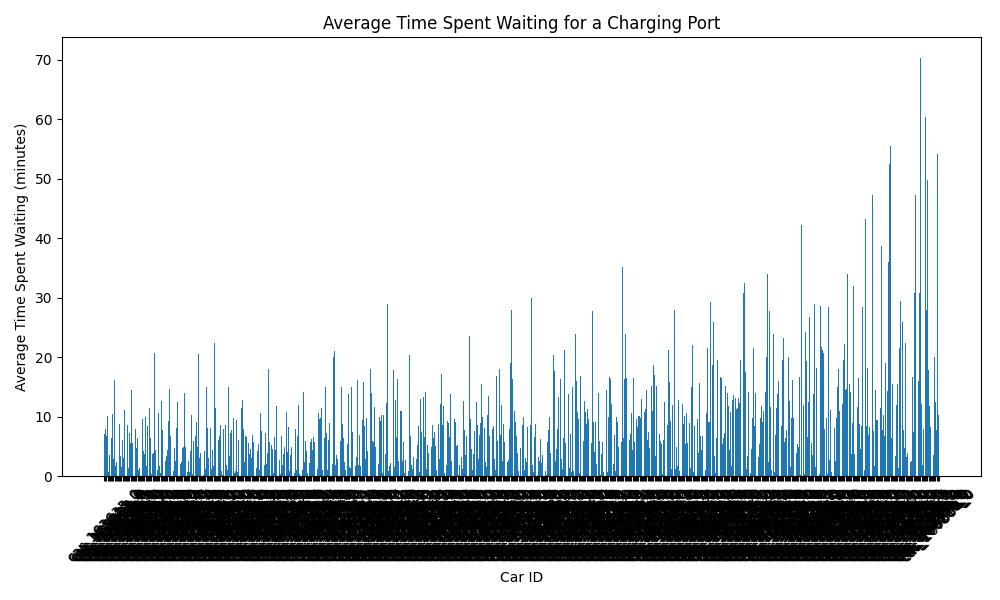
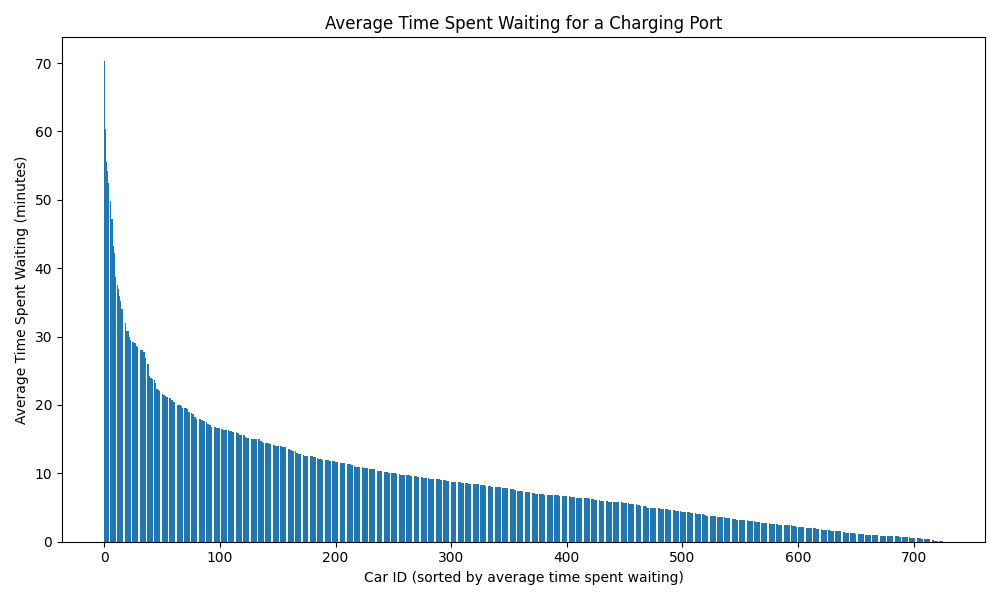
original

diff --git a/src/analysis/cars.py b/src/analysis/cars.py
@@ -92,16 +92,16 @@ def plot_average_travelled_distance(average_travelled_distance):
     # Extract car IDs and distances
     car_ids = list(temp_average_travelled_distance.keys())
     distances = list(temp_average_travelled_distance.values())
+
+    # Sort distances
+    distances.sort(reverse=True)
     
     # Use bar plot with car IDs on x-axis
     plt.bar(range(len(car_ids)), distances)
     
-    plt.xlabel('Car ID')
+    plt.xlabel('Cars (sorted by average travelled distance)')
     plt.ylabel('Average Travelled Distance (km)')
     plt.title('Average Travelled Distance to Charging Station')
-    
-    # Set x-axis ticks to be car IDs
-    plt.xticks(range(len(car_ids)), car_ids, rotation=45)
     
     plt.tight_layout()
     plt.savefig(Constants.Graphs.AVERAGE_TRAVELLED_DISTANCE_GRAPH_FILE_PATH)
@@ -119,16 +119,16 @@ def plot_average_time_spent_waiting(average_time_spent_waiting):
     # Extract car IDs and time spent waiting
     car_ids = list(temp_average_time_spent_waiting.keys())
     time_spent_waiting = list(temp_average_time_spent_waiting.values())
+
+    # Sort time spent waiting
+    time_spent_waiting.sort(reverse=True)
     
     # Use bar plot with car IDs on x-axis
     plt.bar(range(len(car_ids)), time_spent_waiting)
     
-    plt.xlabel('Car ID')
+    plt.xlabel('Car ID (sorted by average time spent waiting)')
     plt.ylabel('Average Time Spent Waiting (minutes)')
     plt.title('Average Time Spent Waiting for a Charging Port')
-    
-    # Set x-axis ticks to be car IDs
-    plt.xticks(range(len(car_ids)), car_ids, rotation=45)
     
     plt.tight_layout()
     plt.savefig(Constants.Graphs.AVERAGE_TIME_SPENT_WAITING_GRAPH_FILE_PATH)

diff --git a/src/analysis/stations_usage.py b/src/analysis/stations_usage.py
@@ -97,6 +97,7 @@ def plot_total_usage(total_usage):
     plt.ylabel('Average Usage')
     plt.title('Average Usage of Charging Stations')
     plt.ylim(0, 1)
+    plt.xlim(0, 3600)
     plt.tight_layout()
     plt.savefig(Constants.Graphs.STATIONS_TOTAL_USAGE_GRAPH_FILE_PATH)
 
